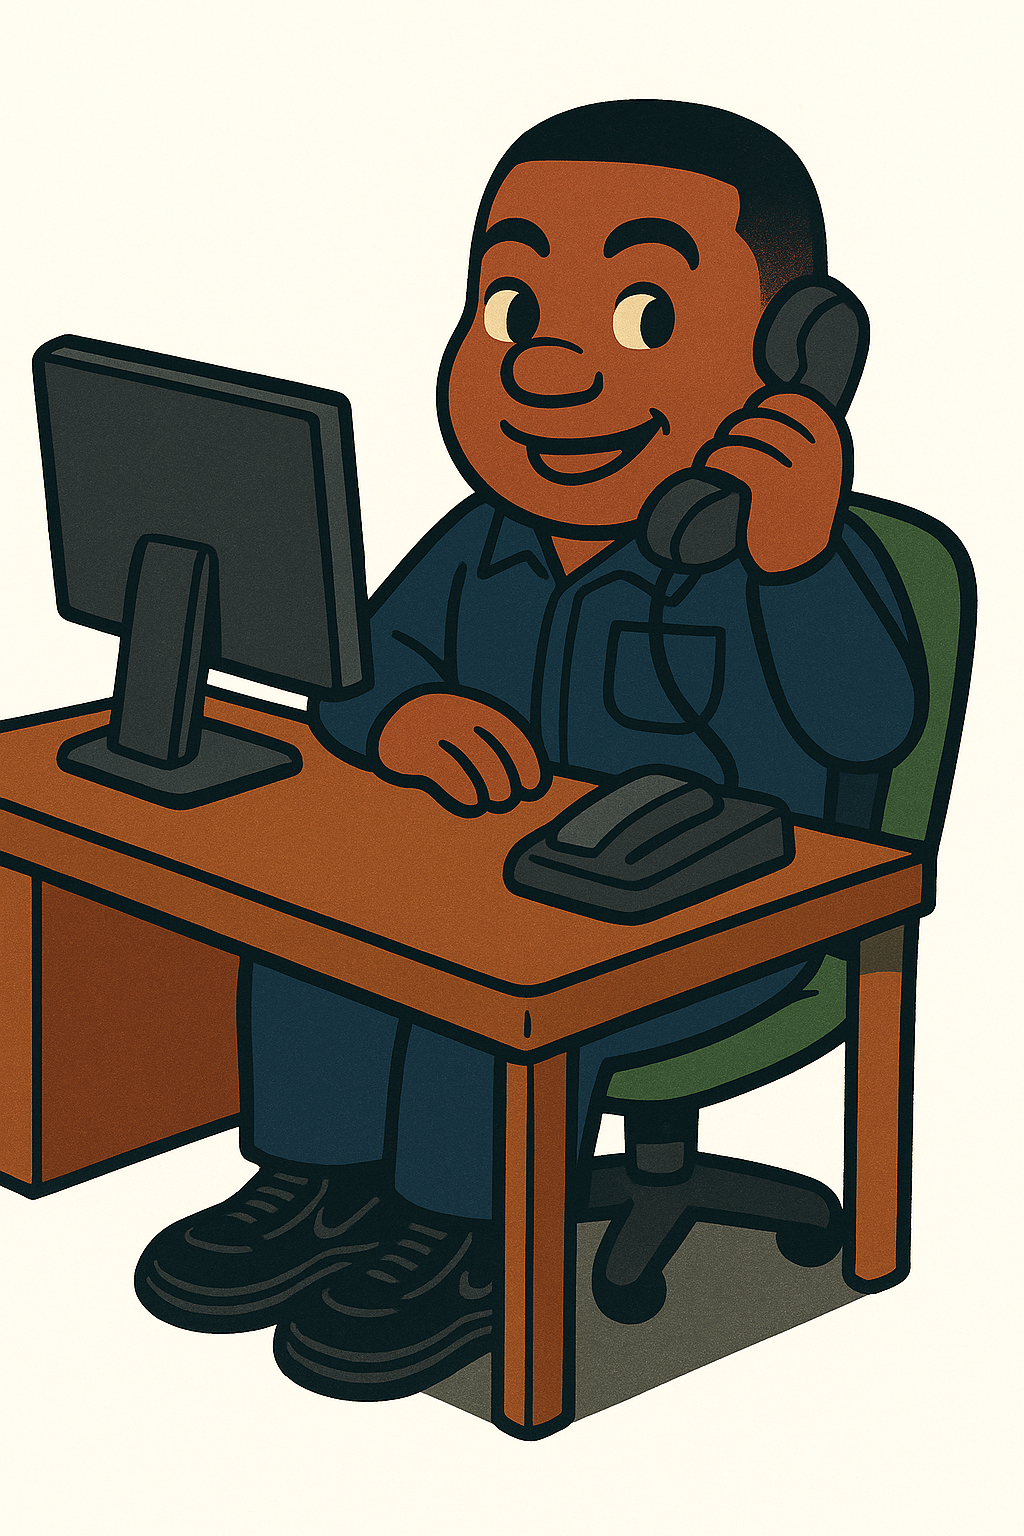
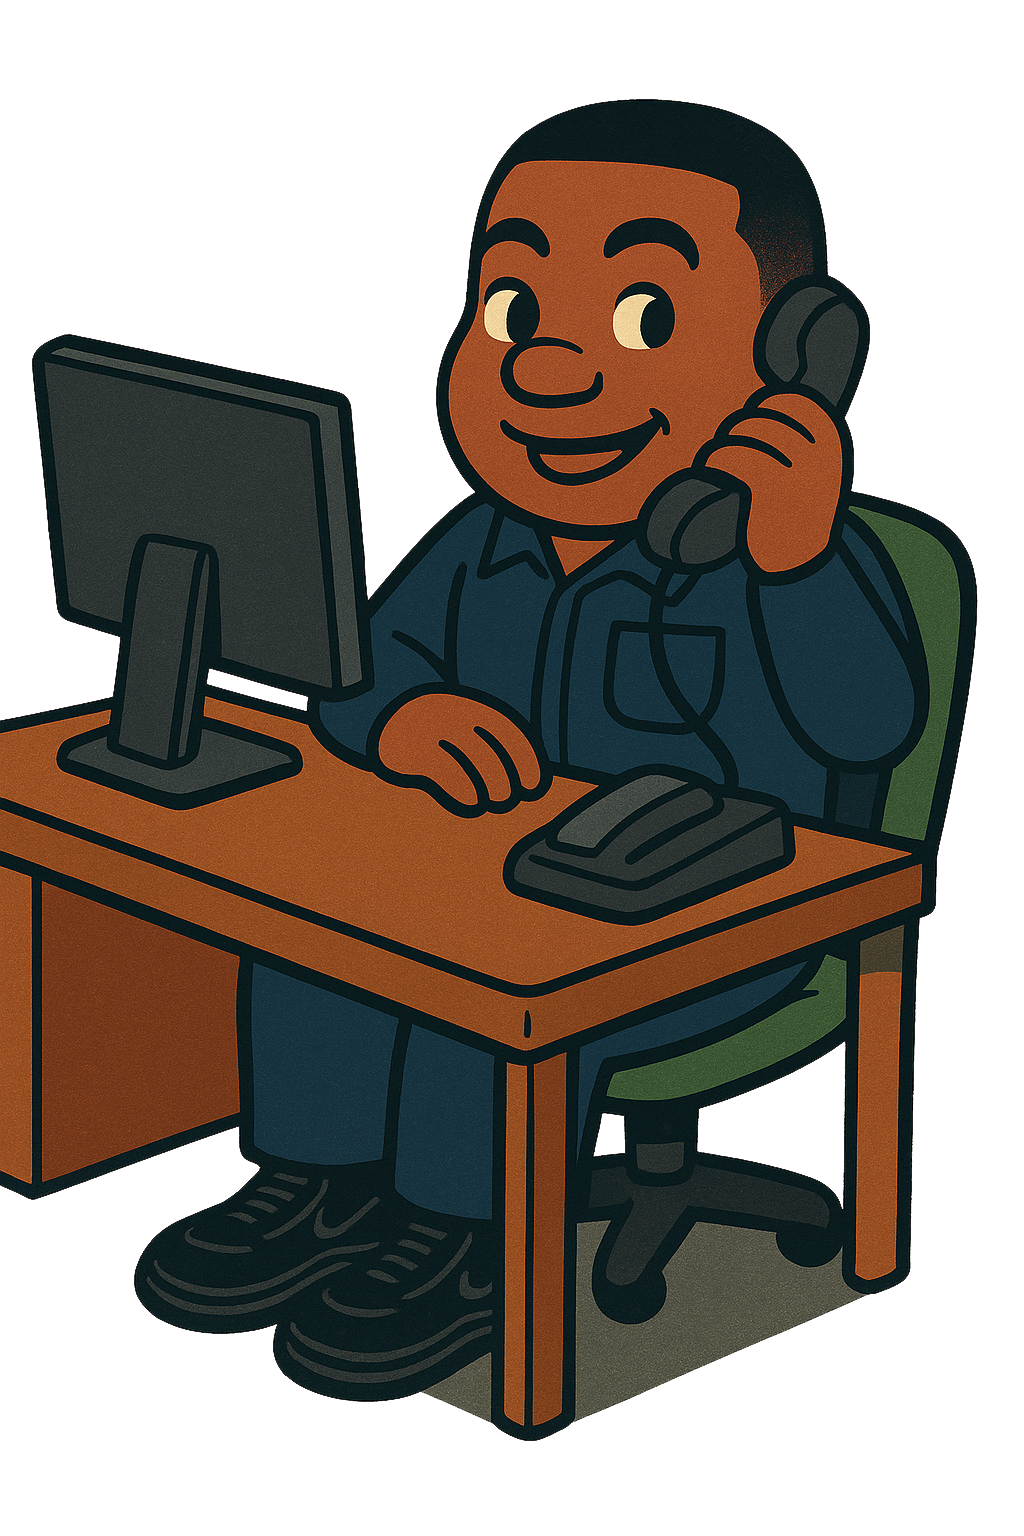
mod

diff --git a/docs/coverage.html b/docs/coverage.html
@@ -20,9 +20,11 @@
   <p class="hero__sub">Charleston Tri-County • NYC Metro — with partners nationwide.</p>
 </section>
 
+<!-- Photo row (desktop = 1 row of 4) -->
 <section class="section">
   <div class="centered-narrow">
-    <div class="operate-grid" role="group" aria-label="Images: Charleston — Pineapple Fountain & Ravenel Bridge; New York — Manhattan Bridge & Midtown Skyline.">
+    <div class="operate-grid" role="group"
+         aria-label="Images: Charleston — Pineapple Fountain & Ravenel Bridge; New York — Statue of Liberty & NYC Skyline.">
       <h3 class="pill-header" data-region="sc">South Carolina</h3>
       <div class="op-frame"><img src="./public/web-assets/pineapple-charleston.jpg" alt="Pineapple Fountain"></div>
       <div class="op-frame"><img src="./public/web-assets/arthur-bridge.jpg" alt="Ravenel Bridge"></div>
@@ -36,6 +38,57 @@
       <span class="pill">Charleston, SC — Tri-County area</span>
       <span class="pill">New York, NY — Metropolitan area</span>
       <span class="pill">Nationwide partnerships — ask us</span>
+    </div>
+  </div>
+</section>
+
+<!-- Service Area Maps -->
+<section class="section">
+  <div class="centered-narrow">
+    <h2 class="section__title">Service Area Maps</h2>
+
+    <div class="map-grid">
+      <!-- SC Map -->
+      <article class="map-card glass">
+        <header class="map-card__head">
+          <span class="map-chip">South Carolina</span>
+          <strong class="map-title">Charleston Tri-County</strong>
+        </header>
+        <figure class="map-figure">
+          <!-- Replace with your real file -->
+          <img src="./public/web-assets/tri-country.png"
+               alt="Map of Charleston Tri-County service area">
+        </figure>
+        <footer class="map-meta">
+          <span>Primary: Charleston • North Charleston • Mount Pleasant</span>
+          <span class="dot-sep">•</span>
+          <span>Surrounding partners available</span>
+        </footer>
+      </article>
+
+      <!-- NYC Map -->
+      <article class="map-card glass">
+        <header class="map-card__head">
+          <span class="map-chip">New York</span>
+          <strong class="map-title">NYC Metro</strong>
+        </header>
+        <figure class="map-figure">
+          <!-- Replace with your real file -->
+          <img src="./public/web-assets/metro.png"
+               alt="Map of NYC Metro service area">
+        </figure>
+        <footer class="map-meta">
+          <span>Primary: Manhattan • Brooklyn • Queens</span>
+          <span class="dot-sep">•</span>
+          <span>Extended: Bronx • Staten Island</span>
+        </footer>
+      </article>
+    </div>
+
+    <!-- Optional CTA strip -->
+    <div class="map-cta">
+      <a class="btn-pill" href="./contact.html">Confirm Your Address</a>
+      <a class="btn-ghost" href="./partnership.html">Partner With Us</a>
     </div>
   </div>
 </section>

diff --git a/docs/contact.css b/docs/contact.css
@@ -11,50 +11,53 @@
   max-width: 740px;
 }
 
-/* ===== Contact Section Layout ===== */
-.contact-section {
+/* Pull the contact section up so its BG can sit under the hero,
+   but keep the form in the same place with extra top padding */
+.contact-section{
   position: relative;
   display: flex;
   align-items: center;
   justify-content: center;
-  padding: 60px 18px;
-  overflow: hidden;
+  /* was: padding: 60px 18px; */
+  padding: calc(60px + 140px) 18px 60px;  /* add 140px top padding */
+  margin-top: -140px;                      /* overlap the hero by 140px */
+  min-height: 100vh;
+  z-index: 0;                              /* below its own form card */
 }
 
-/* ===== Background Image ===== */
-.contact-bg {
+/* Full-bleed background that can extend into the hero area */
+.contact-bg{
   position: absolute;
-  top: 0; left: 0;
-  width: 100%; height: 100%;
+  inset: 0;                 /* fill the (now overlapped) section */
   overflow: hidden;
   z-index: 0;
+  pointer-events: none;
 }
-.contact-bg-img {
+
+/* Less zoom, lower focal point, and a TOP fade using a mask */
+.contact-bg-img{
   width: 100%;
   height: 100%;
   object-fit: cover;
-  object-position: center 25%; /* lowers crop */
-  opacity: 0.25;
+  object-position: center 42%;       /* nudge focus down a bit */
+  transform: scale(0.96);            /* reduce “zoom-in” look */
+  opacity: 0.28;
   filter: blur(2px);
-  transform: scale(0.85);
-  transition: transform 0.4s ease, object-position 0.4s ease;
+
+  /* ⤵ top fade: transparent at the very top → fully visible by ~160px */
+  -webkit-mask-image: linear-gradient(to bottom,
+                       transparent 0,
+                       rgba(0,0,0,.75) 80px,
+                       #000 160px);
+          mask-image: linear-gradient(to bottom,
+                       transparent 0,
+                       rgba(0,0,0,.75) 80px,
+                       #000 160px);
 }
 
-/* ===== Glass Form Card ===== */
-.form-card.glass {
-  position: relative;
-  z-index: 1;
-  backdrop-filter: blur(10px) saturate(1.2);
-  -webkit-backdrop-filter: blur(10px) saturate(1.2);
-  background: rgba(255, 249, 236, 0.78);
-  border: 1.5px solid rgba(168, 78, 59, 0.4);
-  border-radius: var(--r-xl);
-  box-shadow: var(--lift);
-  max-width: 900px;
-  padding: 28px;
-  color: var(--ink);
-  animation: floatUp 0.5s ease;
-}
+/* Make sure the glass card stays above the background */
+.form-card.glass{ position: relative; z-index: 1; }
+
 
 @keyframes floatUp {
   from { opacity: 0; transform: translateY(10px); }

diff --git a/docs/coverage.css b/docs/coverage.css
@@ -1,2 +1,104 @@
 /* =================== QuickChoice • coverage.css =================== */
+
+/* Mild spacing tighten */
 .section{ padding-top:24px; }
+
+/* ---------- PHOTO ROW: 1 row of 4 on desktop ---------- */
+@media (min-width: 980px){
+  .operate-grid{
+    grid-template-columns: repeat(4, 1fr);
+    grid-auto-rows: 230px;
+    align-items: center;
+    justify-items: center;
+    gap: 14px;
+  }
+  .op-frame{
+    height: 230px; width: 100%;
+    border-radius: 22px;
+  }
+  .pill-header[data-region="sc"]{
+    grid-column: 1 / span 2;
+    grid-row: 1;
+    justify-self: start;
+    z-index: 2;
+    margin: 8px 0 0 10px;
+    position: relative;
+  }
+  .pill-header[data-region="ny"]{
+    grid-column: 3 / span 2;
+    grid-row: 1;
+    justify-self: start;
+    z-index: 2;
+    margin: 8px 0 0 10px;
+    position: relative;
+  }
+}
+
+/* ---------- MAP CARDS ---------- */
+.map-grid{
+  display: grid;
+  grid-template-columns: 1fr;
+  gap: 16px;
+  margin-top: 10px;
+}
+@media (min-width: 980px){
+  .map-grid{
+    grid-template-columns: 1fr 1fr; /* two maps side-by-side on desktop */
+  }
+}
+
+.map-card{
+  border-radius: 22px;
+  border: 1px solid var(--glass-border);
+  box-shadow: var(--lift);
+  overflow: hidden;
+}
+
+/* header row */
+.map-card__head{
+  display: flex; align-items: center; gap: 10px;
+  padding: 12px 14px 6px;
+}
+.map-chip{
+  display: inline-block;
+  font-weight: 800;
+  color: #1a4c74;
+  background: linear-gradient(180deg, #fff9ec, #ffe7c1);
+  border: 1.5px solid var(--rim);
+  border-radius: var(--r-pill);
+  padding: 6px 10px;
+  white-space: nowrap;
+}
+.map-title{
+  font-size: 18px; color:#0c2c41;
+}
+
+.map-figure{
+  margin: 0;
+  padding: 10px 12px 14px;
+}
+
+.map-figure img{
+  width: 100%;
+  height: auto;
+  object-fit: contain;
+  border-radius: 18px;
+  border: 1px solid var(--line);
+  background: #fff;
+  display: block;
+}
+
+/* footer meta */
+.map-meta{
+  display:flex; gap:8px; flex-wrap:wrap;
+  padding: 8px 14px 14px;
+  color: var(--muted);
+  font-size: 14px;
+}
+.dot-sep{ opacity:.6 }
+
+/* CTA row beneath maps */
+.map-cta{
+  display:flex; gap:12px; justify-content:center; margin-top:16px;
+  flex-wrap:wrap;
+}

diff --git a/docs/about.html b/docs/about.html
@@ -4,7 +4,7 @@
 <meta name="viewport" content="width=device-width, initial-scale=1" />
 <title>QuickChoice • About</title>
 <link href="https://fonts.googleapis.com/css2?family=Inter:wght@400;600;800&family=Playfair+Display:wght@600&family=Allura&display=swap" rel="stylesheet">
-<link rel="stylesheet" href="otherstyles.css" />
+<link rel="stylesheet" href="general.css" />
 <link rel="stylesheet" href="about.css" />
 <link rel="icon" type="image/png" href="/docs/public/web-assets/favicon.png">
 </head>
